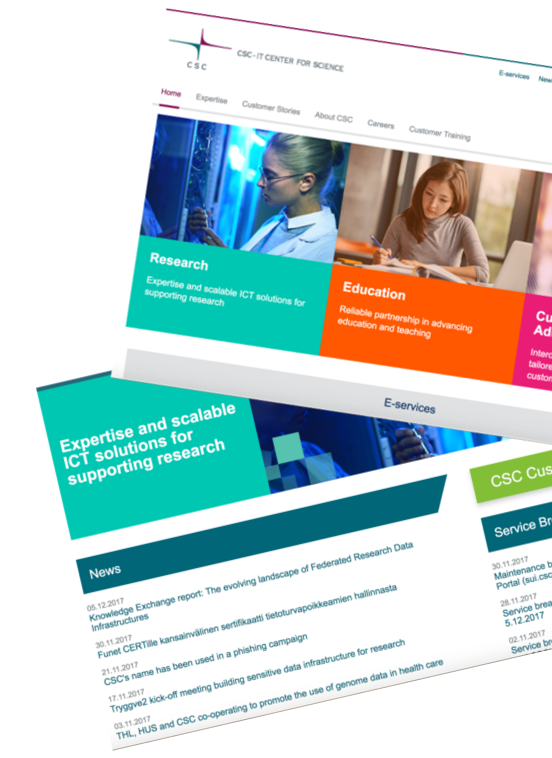
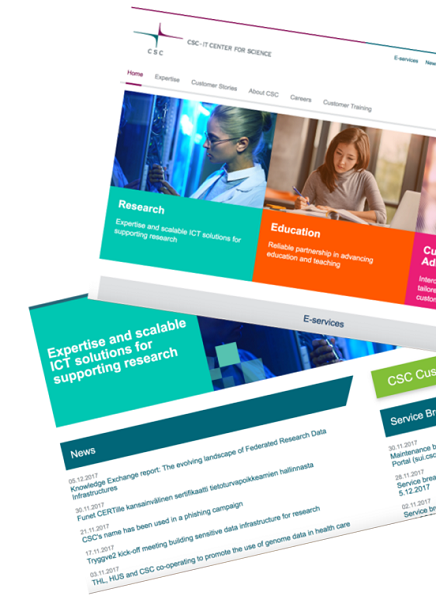
minor changes in styling.

diff --git a/src/Components/ProjectItem.js b/src/Components/ProjectItem.js
@@ -10,8 +10,12 @@ export default class ProjectItem extends Component {
   constructor(){
     super();
     //automatically crop some of the image on the edges of the screen
-    this.state = {imgLeft: {left: '-10%'}, imgRight: {right: '-10%'}};
+    this.state = {
+      imgLeft: {left: '-10%'},
+      imgRight: {right: '-10%'}
+    };
   }
+
 handleMouseOver(){
   this.setState({
     imgLeft:{
@@ -44,14 +48,18 @@ handleMouseOut(){
         <div class="dateText">{this.props.project.dates}</div>
         <p>{this.props.project.description}</p>
         </div>
-        <img class="projectImage" src={this.props.project.image} alt={this.props.project.title} style={this.state.imgRight}/>
+        <div class="imgContainer" id={this.props.project.image} style={this.state.imgRight}>
+        <img class="projectImage" src={this.props.project.image} alt={this.props.project.title} />
+        </div>
         </div>
       );
     }else{
       return (
         <div key={this.props.project} className={'projectEntry fadeIn'} onMouseOver={this.handleMouseOver.bind(this)} onMouseOut={this.handleMouseOut.bind(this)}>
-        <img class="projectImage" src={this.props.project.image} alt={this.props.project.title} style={this.state.imgLeft}/>
-        <div class="projectInfo">
+        <div class="imgContainer" id={this.props.project.image} style={this.state.imgLeft}>
+        <img class="projectImage" src={this.props.project.image} alt={this.props.project.title} />
+        </div>
+      <div class="projectInfo">
         <h2><a href={this.props.project.link} target="_blank">{this.props.project.title}</a></h2>
         <div class="dateText">{this.props.project.dates}</div>
         <p>{this.props.project.description}</p>

diff --git a/src/Components/WorkItem.js b/src/Components/WorkItem.js
@@ -11,7 +11,11 @@ import React, { Component } from 'react';
 export default class WorkItem extends Component {
   constructor(props){
     super(props);
-      this.state = {img:{}};
+      this.state = {
+        img:{}
+      };
+      this.containerLeft ={justifyContent: 'flex-start'};
+      this.containerRight ={justifyContent: 'flex-end'};
   }
 
   handleMouseOver(){
@@ -38,7 +42,9 @@ export default class WorkItem extends Component {
         <div class="dateText">{this.props.work.dates}</div>
         <p>{this.props.work.description}</p>
         </div>
-        <img class="workImage" src={this.props.work.image} alt={this.props.work.title} style={this.state.img}/>
+        <div class="imgContainer" id={this.props.work.image} style={this.state.img}>
+        <img class="workImage" src={this.props.work.image} alt={this.props.work.title}/>
+        </div>
         </div>
       );
     }
@@ -46,7 +52,9 @@ export default class WorkItem extends Component {
     else{
       return (
         <div key={this.props.work} className={'workEntry fadeIn'} onMouseOver={this.handleMouseOver.bind(this)} onMouseOut={this.handleMouseOut.bind(this)}>
-        <img class="workImage" src={this.props.work.image} alt={this.props.work.title} style={this.state.img}/>
+        <div class="imgContainer" id={this.props.work.image} style={this.state.img}>
+          <img class="workImage" src={this.props.work.image} alt={this.props.work.title}/>
+        </div>
         <div class="workInfo">
         <h2><a href={this.props.work.link} target="_blank">{this.props.work.employer} {this.props.work.title}</a></h2>
         <div class="dateText">{this.props.work.dates}</div>

diff --git a/public/css/style.css b/public/css/style.css
@@ -186,6 +186,7 @@ ul {
 .projectEntry{
   display: flex;
   justify-content: space-between;
+  padding: 40px 0;
 }
 
 .educationEntry{
@@ -199,14 +200,21 @@ ul {
   text-align: center;
   padding: 0 5%;
 }
+.imgContainer{
+  display: flex;
+  max-width: 40%;
+  height: auto;
+  max-height: 600px;
+  overflow: hidden;
+  align-items: center;
+}
 
 .workImage,
 .projectImage{
-  display: block;
   position: relative;
-  max-width: 40%;
+  max-width: 100%;
   height: auto;
-  max-height: 500px;
+  max-height: 100%;
   object-fit: contain;
 }
 
